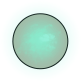
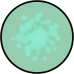
created separate box component

diff --git a/src/client/components/App/Box.js b/src/client/components/App/Box.js
@@ -1,0 +1,116 @@
+import React, { Component, PropTypes } from 'react';
+import { connect } from 'react-redux';
+
+import classNames from 'classnames';
+
+import { click, mouseMove } from '../../actions';
+import { Motion, spring } from 'react-motion';
+
+import { range } from 'lodash';
+
+import CenterGliph from './CenterGliph';
+
+import s from './App.scss';
+
+import * as phases from '../../constants/Phases';
+import * as objects from '../../constants/Objects';
+
+class Box extends Component {
+
+  static propTypes = {
+    click: PropTypes.func.isRequired,
+    mouseMove: PropTypes.func.isRequired,
+    phase: PropTypes.string.isRequired,
+    gliphIndex: PropTypes.number.isRequired,
+    glow: PropTypes.object.isRequired,
+    corners: PropTypes.array.isRequired,
+    boxCenterClicked: PropTypes.bool.isRequired,
+  }
+
+  clickCorner(index) {
+    this.props.click({ object: objects.BOX_CORNER, index });
+  }
+
+  clickCenter() {
+    this.props.click({ object: objects.BOX_CENTER });
+  }
+
+  mouseMove(e) {
+    const { pageX, pageY } = e;
+    const container = this.refs.gliph;
+
+    this.props.mouseMove({
+      object: objects.GLIPH,
+      coords: {
+        x: pageX - (window.innerWidth - container.offsetWidth) / 2,
+        y: pageY - (window.innerHeight - container.offsetHeight) / 2,
+      }
+    });
+  }
+
+
+  render() {
+    const { boxCenterClicked, corners, phase, glow, gliphIndex } = this.props;
+
+    if ([phases.BOX, phases.SOUND].indexOf(phase) === -1) return null;
+
+    return (
+      <div
+        className = { s.box }
+      >
+        {
+          corners.map((corner, index) =>
+            <button
+              key = { index }
+              className = {
+                classNames({
+                  [s['corner-spot']]: true,
+                  [s[corner.position]]: true,
+                  [s.clicked]: corner.clicked,
+                  [s.clickable]: boxCenterClicked,
+                })
+              }
+              onClick = { this.clickCorner.bind(this, index) }
+            />
+          )
+        }
+        <button
+          className = { s.center }
+          onClick = { this.clickCenter.bind(this) }
+        />
+        {
+          phase === phases.SOUND &&
+          <div
+            className = { s.glow }
+            style = {{
+              left: glow.coords.x,
+              top: glow.coords.y,
+              opacity: glow.opacity,
+              backgroundImage: `url(${require(`./box/glow-0${gliphIndex + 1}.png`)})`
+            }}
+          />
+        }
+        {
+          phase === phases.SOUND &&
+          <div
+            ref = "gliph"
+            className = { s.gliph }
+            onMouseMove = { this.mouseMove.bind(this) }
+          />
+        }
+      </div>
+    );
+  }
+
+}
+
+export default connect(
+  state => ({
+    phase: state.phase,
+    corners: state.corners,
+    glow: state.glow,
+    gliphIndex: state.gliphIndex,
+    boxCenterClicked: state.boxCenterClicked,
+  }),
+  { click, mouseMove }
+)(Box);

diff --git a/src/client/components/App/App.js b/src/client/components/App/App.js
@@ -10,7 +10,7 @@ import { Motion, spring } from 'react-motion';
 import s from './App.scss';
 
 import Rock from './Rock';
-import CenterGliph from './CenterGliph';
+import Box from './Box';
 
 require('../base.css');
 
@@ -32,9 +32,7 @@ class App extends Component {
     click: PropTypes.func.isRequired,
     mouseMove: PropTypes.func.isRequired,
     inventory: PropTypes.object.isRequired,
-    glowCoords: PropTypes.object.isRequired,
     lenseCoords: PropTypes.object.isRequired,
-    glowOpacity: PropTypes.number.isRequired,
     gliphIndex: PropTypes.number.isRequired,
     jinnSize: PropTypes.number.isRequired,
     dialog: PropTypes.object,
@@ -104,54 +102,7 @@ class App extends Component {
         onMouseMove={ this.lenseMove.bind(this) }
         onClick={this.clickDialog.bind(this)}
       >
-        {
-          [phases.BOX, phases.SOUND].indexOf(phase) > -1 &&
-          <div
-            className = { s.box }
-          >
-            {
-              corners.map((corner, index) =>
-                <button
-                  key = { index }
-                  className = {
-                    classNames({
-                      [s['corner-spot']]: true,
-                      [s[corner.position]]: true,
-                      [s.clicked]: corner.clicked,
-                      [s.clickable]: boxCenterClicked,
-                    })
-                  }
-                  onClick = { this.click.bind(this, { object: objects.BOX_CORNER, index }) }
-                />
-              )
-            }
-            <button
-              className = { s.center }
-              onClick = { this.click.bind(this, { object: objects.BOX_CENTER }) }
-            />
-            <CenterGliph />
-            {
-              phase === phases.SOUND &&
-              <div
-                className = { s.glow }
-                style = {{
-                  left: glowCoords.x,
-                  top: glowCoords.y,
-                  opacity: glowOpacity,
-                  backgroundImage: `url(${require(`./box/glow-0${gliphIndex + 1}.png`)})`
-                }}
-              />
-            }
-            {
-              phase === phases.SOUND &&
-              <div
-                ref = "gliph"
-                className = { s.gliph }
-                onMouseMove = { this.mouseMove.bind(this) }
-              />
-            }
-          </div>
-        }
+        <Box />
         {
           [phases.CATCH, phases.PLANT].indexOf(phase) > -1 &&
           <div className = { s['box-placeholder'] }>
@@ -299,8 +250,6 @@ export default connect(
     seeds: state.seeds,
     hatches: state.hatches,
     phase: state.phase,
-    glowCoords: state.glowCoords,
-    glowOpacity: state.glowOpacity,
     gliphIndex: state.gliphIndex,
     jinnSize: state.jinnSize,
     inventory: state.inventory,

diff --git a/src/client/reducers/game.js b/src/client/reducers/game.js
@@ -99,7 +99,7 @@ const gliphCoords = [
 ];
 
 const initialState = {
-  phase: phases.SMASH,
+  phase: phases.BOX,
 
   smashClicks: 0,
 
@@ -107,12 +107,13 @@ const initialState = {
 
   rockCracked: false,
 
-  glowCoords: {
-    x: null,
-    y: null
+  glow: {
+    coords: {
+      x: null,
+      y: null,
+    },
+    opacity: 0,
   },
-
-  glowOpacity: 0,
 
   gliphIndex: 0,
 
@@ -229,7 +230,8 @@ const boxPhase = (state, action) => {
 };
 
 const gliphDistance = (state) => {
-  const { glowCoords, gliphIndex } = state;
+  const { glow, gliphIndex } = state;
+  const glowCoords = glow.coords;
 
   return Math.sqrt(
     Math.pow(glowCoords.x - gliphCoords[gliphIndex].x, 2) +
@@ -266,8 +268,10 @@ const soundPhase = (state, action) => {
         case objects.GLIPH:
           return reachedGliph({
             ...state,
-            glowCoords: clone(coords),
-            glowOpacity: getGlowOpacity(state),
+            glow: {
+              coords: clone(coords),
+              opacity: getGlowOpacity(state),
+            },
           });
 
         default:

diff --git a/src/client/components/App/App.scss b/src/client/components/App/App.scss
@@ -1,12 +1,15 @@
 @import "../base.css";
 
 $rock-size: 401px;
-$box-size: 300px;
+$box-size: 306px;
 $button-size: 101px;
-$corner-size: 150px;
-$corner-spot-size: 40px;
-$seed-size: 28px;
+$corner-size: 153px;
+$corner-spot-size: 36px;
+$center-size: 109px;
+$seed-size: 26px;
+
 $item-size: 30px;
+
 $flower-size: 227px;
 $jinn-height: 122px;
 $jinn-width: 186px;

diff --git a/src/client/components/App/Rock.js b/src/client/components/App/Rock.js
@@ -71,7 +71,7 @@ class Rock extends Component {
   render() {
     const { phase, smashClicks, rockCracked } = this.props;
 
-    if (this.state.hide) return null;
+    if (this.state.hide || this.props.phase !== phases.SMASH) return null;
 
     return (
       <Motion style = { this.getRockStyles() }>
